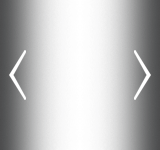
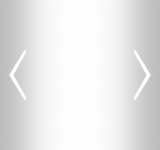
хня

diff --git a/markup/js/script.js b/markup/js/script.js
@@ -1,7 +1,46 @@
 function sliderPhoto(that) {
 	var var_this = $(that);
 	var_this.find('ul').wrap('<div class="slide"></div>');
-	var_this.find('ul li').length;
+	var var_len = var_this.find('ul li').length;
+	var_this.find('ul li').eq(0).addClass('active');
+	var var_widthAll = var_this.width();
+	var var_widthUL = (var_this.find('ul li').width() * var_len) + var_len;
+	var_this.find('ul').css('width', var_widthUL+'px');
+	var_this.find('.slide').append('<div class="left-navi"></div><div class="right-navi"></div>');
+	var var_widthULminus = var_widthUL - var_widthAll;
+	$('.right-navi').click(function() {
+		var var_widthOne = (var_this.find('ul .active').width() + 1);
+		var var_margin = var_this.find('ul').css('margin-left');
+		var_margin = Math.abs(parseInt(var_margin.slice(0,-2)));
+		if ((var_margin+var_widthOne) <= var_widthULminus) {
+			var_this.find('ul').animate({'margin-left' : '-='+var_widthOne+'px'}, 500);
+			var_this.find('ul .active').removeClass('active').next().addClass('active');
+		}	
+		else {
+			var var_widthEnd = var_margin - var_widthAll;
+			if ((var_widthEnd + var_margin) == var_widthULminus) {
+				var_this.find('ul').animate({'margin-left' : '-='+var_widthEnd+'px'}, 500);
+				var_this.find('ul li').removeClass('active');
+				var_this.find('ul li').eq(var_len-1).addClass('active');
+			}			
+		}		
+	});
+	$('.left-navi').click(function() {
+		var var_widthOne = (var_this.find('ul .active').width() + 1);
+		var var_margin = var_this.find('ul').css('margin-left');
+		var_margin = Math.abs(parseInt(var_margin.slice(0,-2)));
+		console.log((var_margin-var_widthOne) +' '+ var_widthAll);
+		if ((var_margin-var_widthOne) > 0) {
+			var_this.find('ul').animate({'margin-left' : '+='+var_widthOne+'px'}, 500);
+			var_this.find('ul .active').removeClass('active').prev().addClass('active');
+		}	
+		else {
+			var_this.find('ul').animate({'margin-left' : '0px'}, 500);
+			var_this.find('ul li').removeClass('active');
+			var_this.find('ul li').eq(0).addClass('active');			
+		}	
+		console.log((var_margin-var_widthOne) +' '+ var_widthAll+' '+var_widthOne);	
+	});
 }
 $(window).load(function() {
 	sliderPhoto('.photo-slide-hotel');

diff --git a/markup/css/style.css b/markup/css/style.css
@@ -1340,16 +1340,27 @@
 	background: url(../images/slice.png) no-repeat -37px -1200px;
 }
 
-.photo-slide-hotel .slide {
+.slide {
 	overflow: hidden;
 	width: 100%;
 	height: 150px;
-	overflow: hidden;
+	position: relative;
+	background:#d8d9de;
 }
-.photo-slide-hotel .slide ul {
+.slide ul {
 	width: 100%;
 }
-.photo-slide-hotel .slide ul li {
+.slide ul li {
 	float: left;
 	margin-right: 1px;
+}
+.slide .left-navi {
+	position: absolute; top:0px; left: 0px;
+	width: 80px; height: 150px; cursor: pointer;
+	background: url(../images/navigation-slide.png) no-repeat left 0;
+}
+.slide .right-navi {
+	position: absolute; top:0px; right: 0px;
+	width: 80px; height: 150px; cursor: pointer;
+	background: url(../images/navigation-slide.png) no-repeat right 0;
 }
